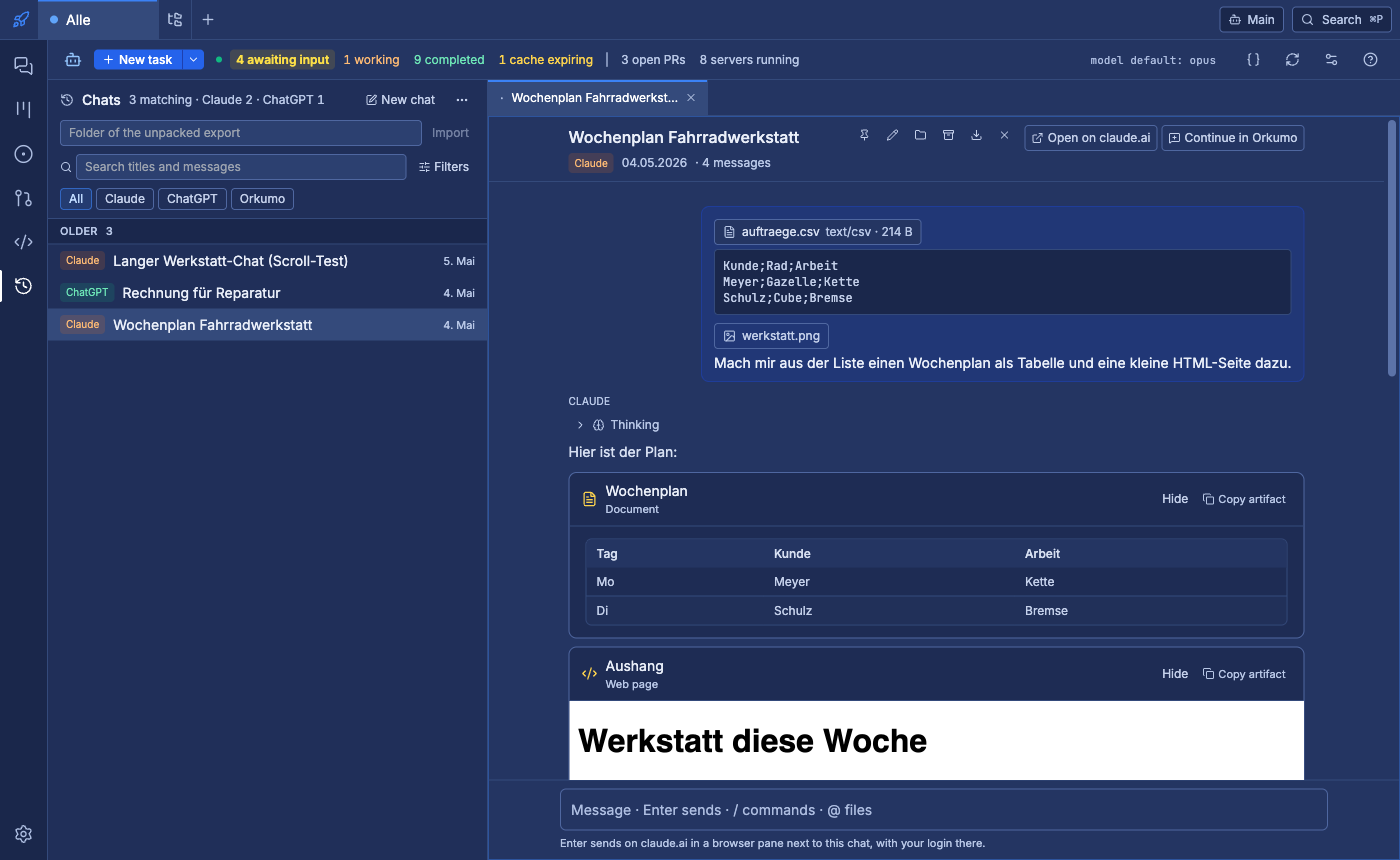
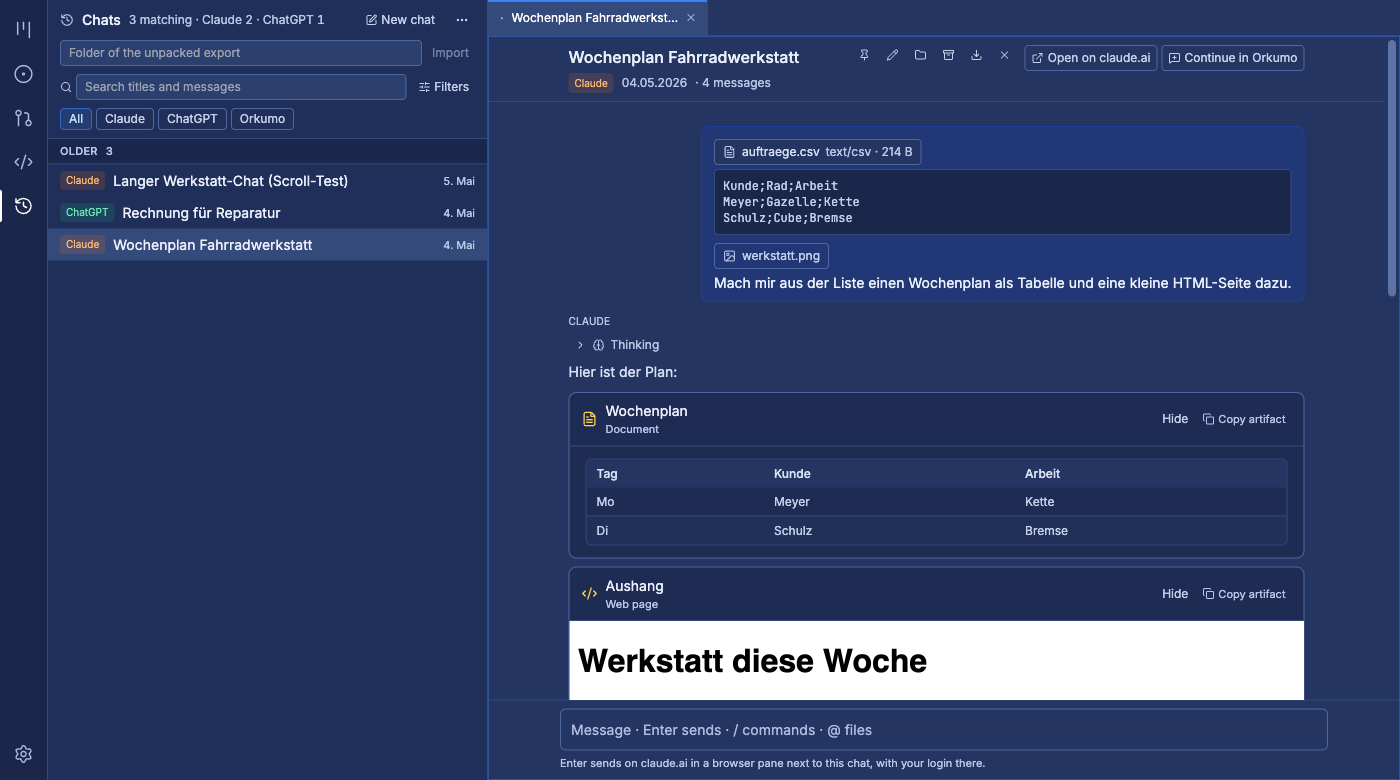
fix(chats): Prompt-Feld und Senden-Knopf nach Rang und nur sichtbar; Test fürs Festhalten am Ende; Nachweise zu Punkt 5
- querySelector mit Liste nimmt das erste Element im Dokument, nicht den besten Selektor: eine
  versteckte textarea vor dem Editor hätte den Text bekommen. Jetzt Selektor für Selektor, nur
  sichtbare Elemente; Senden nur über data-testid bzw. genaue aria-labels
- Regressionstest: Scroll-Event nach Wachsen hält am Ende, Hochscrollen lässt los
- Screenshots ohne Kopfleiste; Senden auf nachgebauter Seite in Chromium, Web-Fallback

Claude-Session: https://claude.ai/code/session_01D4z4TADZtQWE4XHrdaowWZ

diff --git a/test/chatHistoryReader.test.tsx b/test/chatHistoryReader.test.tsx
@@ -2,7 +2,7 @@ import { describe, it, expect, vi, beforeEach, afterEach } from 'vitest';
 import React from 'react';
 import fs from 'fs';
 import path from 'path';
-import { render, screen, waitFor, within } from '@testing-library/react';
+import { act, fireEvent, render, screen, waitFor, within } from '@testing-library/react';
 import userEvent from '@testing-library/user-event';
 import { MemoryRouter } from 'react-router-dom';
 import { ChatHistoryPage } from '../components/ChatHistoryView/ChatHistoryPage';
@@ -155,12 +155,34 @@ describe('chat view: header, scroll, tabs, composer', () => {
   it('header stays on top and the chat opens at its end', async () => {
     const user = userEvent.setup();
     const heights = vi.spyOn(HTMLElement.prototype, 'scrollHeight', 'get').mockReturnValue(5000);
+    // capture the reader's resize callback (images, opened artifacts, a split resize the chat)
+    const resized: (() => void)[] = [];
+    const RealObserver = globalThis.ResizeObserver;
+    globalThis.ResizeObserver = class {
+      constructor(cb: () => void) {
+        resized.push(cb);
+      }
+      observe() {}
+      disconnect() {}
+    } as unknown as typeof ResizeObserver;
     show();
     const reader = await openChat(user, CLAUDE.title);
     await within(reader).findByRole('heading', { name: CLAUDE.title });
     expect(reader.querySelector('[data-chat-header]')!.className).toMatch(/sticky top-0/);
     const scroller = reader.querySelector('[data-chat-header]')!.parentElement!.parentElement!;
     expect(scroller.scrollTop).toBe(5000);
+    // the event of that jump arrives after the chat grew again: still pinned to the end
+    heights.mockReturnValue(6000);
+    fireEvent.scroll(scroller);
+    act(() => resized.forEach((cb) => cb()));
+    expect(scroller.scrollTop).toBe(6000);
+    // scrolling up lets go: growth no longer moves the view
+    scroller.scrollTop = 100;
+    fireEvent.scroll(scroller);
+    heights.mockReturnValue(7000);
+    act(() => resized.forEach((cb) => cb()));
+    expect(scroller.scrollTop).toBe(100);
+    globalThis.ResizeObserver = RealObserver;
     heights.mockRestore();
   });
 
@@ -254,6 +276,18 @@ describe('chat view: header, scroll, tabs, composer', () => {
 });
 
 describe('chatPrompt.js (types into the provider page)', () => {
+  // jsdom lays nothing out: an element counts as visible unless marked hidden
+  beforeEach(() => {
+    vi.spyOn(window.Element.prototype, 'getClientRects').mockImplementation(function (
+      this: HTMLElement
+    ) {
+      return (this.hasAttribute('hidden') ? [] : [{}]) as unknown as ReturnType<
+        HTMLElement['getClientRects']
+      >;
+    });
+  });
+  afterEach(() => vi.restoreAllMocks());
+
   it('finds the browser view that shows exactly this conversation', () => {
     const views = [
       { url: 'https://claude.ai/chat/other', target: 'a' },
@@ -288,6 +322,14 @@ describe('chatPrompt.js (types into the provider page)', () => {
     await expect(result).resolves.toBe('typed');
     expect(document.querySelector('.ProseMirror')!.textContent).toBe('Zeile');
     vi.useRealTimers();
+  });
+
+  it('a hidden textarea before the editor does not take the text', async () => {
+    document.body.innerHTML =
+      '<textarea hidden></textarea><div class="ProseMirror" contenteditable="true"></div>';
+    await expect(typeIntoPage('Hier', false)).resolves.toBe('typed');
+    expect(document.querySelector('textarea')!.value).toBe('');
+    expect(document.querySelector('.ProseMirror')!.textContent).toBe('Hier');
   });
 
   it('no prompt field: nothing typed', async () => {

diff --git a/electron/chatPrompt.js b/electron/chatPrompt.js
@@ -40,9 +40,16 @@ export function findChatView(views, provider, id) {
  * @returns {Promise<'sent'|'typed'|'no-field'>}
  */
 export function typeIntoPage(text, submit) {
-  const field = document.querySelector(
-    '#prompt-textarea, div.ProseMirror[contenteditable="true"], [contenteditable="true"][role="textbox"], textarea'
-  );
+  // In priority order and visible only: a hidden textarea earlier in the page must not win
+  const visible = (el) => el.getClientRects().length > 0;
+  const field = [
+    '#prompt-textarea',
+    'div.ProseMirror[contenteditable="true"]',
+    '[contenteditable="true"][role="textbox"]',
+    'textarea',
+  ]
+    .flatMap((sel) => [...document.querySelectorAll(sel)])
+    .find(visible);
   if (!field) return Promise.resolve('no-field');
   field.focus();
   if (field instanceof HTMLTextAreaElement) {
@@ -65,9 +72,14 @@ export function typeIntoPage(text, submit) {
   }
   if (!submit) return Promise.resolve('typed');
   const sendButton = () =>
-    document.querySelector(
-      '[data-testid="send-button"], button[aria-label="Send message"], button[aria-label="Send prompt"], button[aria-label*="Send" i], button[aria-label*="Senden" i]'
-    );
+    [
+      '[data-testid="send-button"]',
+      'button[aria-label="Send message"]',
+      'button[aria-label="Send prompt"]',
+      'button[aria-label="Nachricht senden"]',
+    ]
+      .flatMap((sel) => [...document.querySelectorAll(sel)])
+      .find(visible);
   return new Promise((resolve) => {
     let tries = 0;
     const press = () => {
